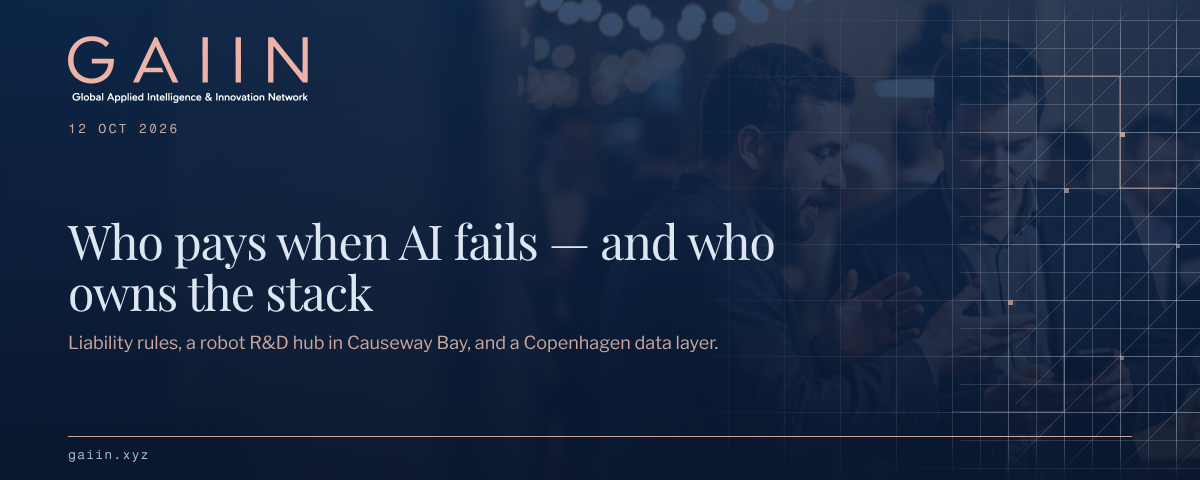
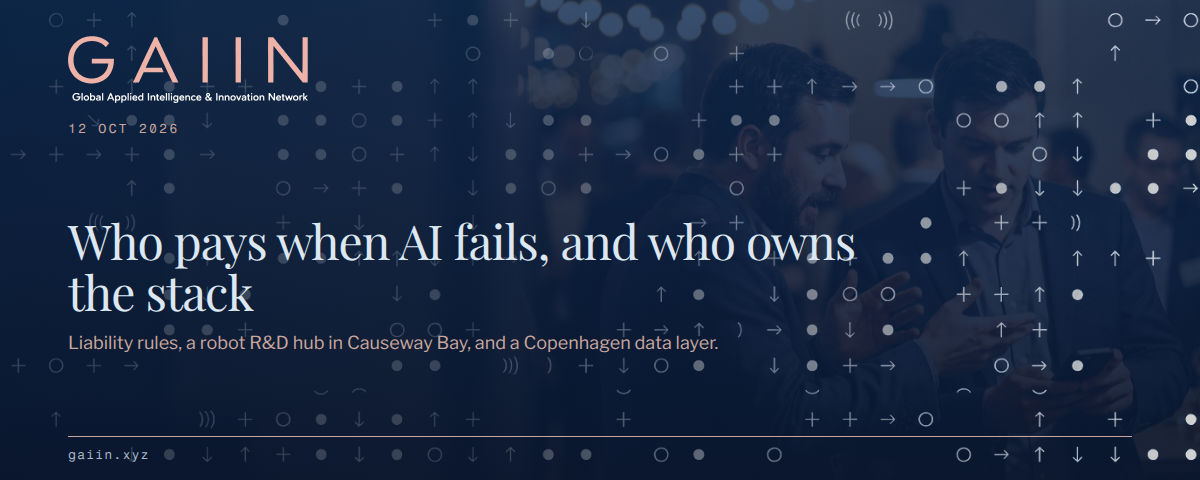
Use pattern3 as the Signal masthead mesh. (#14)
Replace the compositor’s SVG lattice with Jay’s pattern3 icons and re-export the 12 Oct banner so the live issue shows the new mesh.

diff --git a/signal/masthead.html b/signal/masthead.html
@@ -47,7 +47,7 @@
     justify-content: space-between;
   }
 
-  /* Bottom to top: photo, homepage navy overlay, pattern, then type.
+  /* Bottom to top: photo, homepage navy overlay, pattern3 mesh, then type.
      display:none until .has-photo: an unsourced img would paint a gray edge. */
   .photo,
   .overlay {
@@ -78,13 +78,20 @@
     pointer-events: none;
   }
 
+  /* pattern3: light icons, navy field already transparent.
+     Soften, and keep the left ~40% calmer than the right so type stays readable. */
   .mesh {
     position: absolute;
     inset: 0;
     z-index: 0;
     width: 1200px;
     height: 480px;
+    object-fit: cover;
+    object-position: center center;
     pointer-events: none;
+    opacity: 0.9;
+    -webkit-mask-image: linear-gradient(90deg, rgba(0,0,0,0.22) 0%, rgba(0,0,0,0.22) 40%, rgba(0,0,0,0.55) 68%, #000 100%);
+    mask-image: linear-gradient(90deg, rgba(0,0,0,0.22) 0%, rgba(0,0,0,0.22) 40%, rgba(0,0,0,0.55) 68%, #000 100%);
   }
 
   .brand,
@@ -162,54 +169,7 @@
 <article class="masthead" id="masthead">
   <img class="photo" id="masthead-photo" alt="" width="1200" height="480" decoding="sync">
   <div class="overlay" id="masthead-overlay"></div>
-  <svg class="mesh" viewBox="0 0 1200 480" width="1200" height="480" aria-hidden="true">
-    <defs>
-      <pattern id="lattice" width="56" height="56" patternUnits="userSpaceOnUse" patternTransform="translate(0 20)">
-        <path d="M56 0H0V56" fill="none" stroke="#dce7f2" stroke-width="1"/>
-      </pattern>
-      <pattern id="latticeDense" width="28" height="28" patternUnits="userSpaceOnUse" patternTransform="translate(0 20)">
-        <path d="M28 0H0V28" fill="none" stroke="#dce7f2" stroke-width="0.75"/>
-      </pattern>
-      <pattern id="diagonals" width="56" height="56" patternUnits="userSpaceOnUse" patternTransform="translate(0 20)">
-        <path d="M0 56 L56 0" fill="none" stroke="#dce7f2" stroke-width="0.6"/>
-      </pattern>
-      <linearGradient id="meshFadeX" x1="0" y1="0" x2="1200" y2="0" gradientUnits="userSpaceOnUse">
-        <stop offset="0" stop-color="#ffffff" stop-opacity="0"/>
-        <stop offset="0.52" stop-color="#ffffff" stop-opacity="0"/>
-        <stop offset="0.70" stop-color="#ffffff" stop-opacity="0.28"/>
-        <stop offset="0.86" stop-color="#ffffff" stop-opacity="0.8"/>
-        <stop offset="1" stop-color="#ffffff" stop-opacity="1"/>
-      </linearGradient>
-      <linearGradient id="meshFadeY" x1="0" y1="0" x2="0" y2="480" gradientUnits="userSpaceOnUse">
-        <stop offset="0" stop-color="#ffffff" stop-opacity="0"/>
-        <stop offset="0.07" stop-color="#ffffff" stop-opacity="1"/>
-        <stop offset="0.90" stop-color="#ffffff" stop-opacity="1"/>
-        <stop offset="1" stop-color="#ffffff" stop-opacity="0"/>
-      </linearGradient>
-      <mask id="meshMaskX" maskContentUnits="userSpaceOnUse">
-        <rect width="1200" height="480" fill="url(#meshFadeX)"/>
-      </mask>
-      <mask id="meshMaskY" maskContentUnits="userSpaceOnUse">
-        <rect width="1200" height="480" fill="url(#meshFadeY)"/>
-      </mask>
-    </defs>
-    <g mask="url(#meshMaskX)">
-      <g mask="url(#meshMaskY)">
-        <rect width="1200" height="480" fill="url(#lattice)" opacity="0.5"/>
-        <rect x="960" width="240" height="480" fill="url(#latticeDense)" opacity="0.62"/>
-        <rect x="1016" width="184" height="480" fill="url(#diagonals)" opacity="0.4"/>
-        <path d="M1008 76 H1120 V188 H1176" fill="none" stroke="var(--signal-accent)" stroke-width="1.25" stroke-linejoin="miter" opacity="0.7"/>
-        <path d="M952 412 H1064 V244 H1176" fill="none" stroke="#dce7f2" stroke-width="1" stroke-linejoin="miter" opacity="0.35"/>
-      </g>
-    </g>
-    <g fill="var(--signal-accent)">
-      <rect x="1120" y="132" width="5" height="5" opacity="0.9"/>
-      <rect x="1064" y="188" width="5" height="5" opacity="0.7"/>
-      <rect x="1176" y="244" width="4" height="4" opacity="0.6"/>
-      <rect x="1008" y="300" width="5" height="5" opacity="0.75"/>
-      <rect x="1120" y="356" width="4" height="4" opacity="0.55"/>
-    </g>
-  </svg>
+  <img class="mesh" src="assets/overlay-pattern3.png" alt="" width="1376" height="768" decoding="sync" aria-hidden="true">
 
   <header class="brand">
     <img class="wordmark" src="assets/gaiin-lockup-clay-white-wide.svg" alt="GAIIN: Global Applied Intelligence &amp; Innovation Network" width="1698" height="532">

diff --git a/signal/README.md b/signal/README.md
@@ -24,9 +24,13 @@ The logo is the official primary lockup (light clay `#EDB3A8` letters, white `#F
 
 ## Photo
 
-Layer order, bottom to top: the photo (`object-fit: cover`, centered unless `photoPosition` is set), then the homepage hero overlay `linear-gradient(rgba(13,41,81,.82),rgba(10,23,48,.93))`, then the existing pattern, then the type and the clay lockup.
+Layer order, bottom to top: the photo (`object-fit: cover`, centered unless `photoPosition` is set), then the homepage hero overlay `linear-gradient(rgba(13,41,81,.82),rgba(10,23,48,.93))`, then the pattern3 mesh, then the type and the clay lockup.
 
-`photo` is a URL (Cloudinary preferred) or a path from the repo root, such as `signal/photos/week.jpg`. With an empty `photo`, the artboard is solid navy `#0a1730` plus the pattern — the same field as before this slot existed.
+The mesh is Brand's pattern3 at `signal/assets/overlay-pattern3.png`: the light icons, with the baked navy field removed so the photo and wash stay visible. It is softened (`opacity: 0.9`) and faded so the left ~40% of the artboard stays calmer than the right.
+
+pattern2 is checked in at `signal/assets/overlay-pattern2.png` with the same navy-field removal. It is an alternate asset only. The compositor loads pattern3.
+
+`photo` is a URL (Cloudinary preferred) or a path from the repo root, such as `signal/photos/week.jpg`. With an empty `photo`, the artboard is solid navy `#0a1730` plus the pattern3 mesh, the same field as before this slot existed.
 
 Use a landscape frame at least 2000px wide, and keep the subject away from the left text column. Prefer GAIIN's own event photos. Cloudinary URLs can use transformations like `w_2400,q_auto,f_auto`.
 
